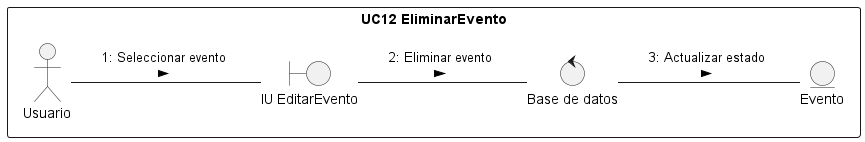
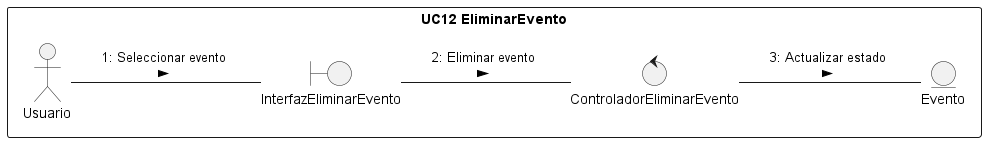
diagrama colaboracion

diff --git a/README.md b/README.md
@@ -54,15 +54,9 @@ El **Equipo de Trabajo** está conformado por:
   </div>
   <div align="center">
     <h4 style="text-decoration:underline">
-      Diagramas de Colaboración de los Casos de Uso
+      Diagrama de Colaboración de los Casos de Uso
     </h4>
-    <img src="docs/scenariosView/diagramas-de-colaboracion/DC1.png" alt="Diagrama-Colaboracion" style="border-radius:5px;">
-    <img src="docs/scenariosView/diagramas-de-colaboracion/DC2.png" alt="Diagrama-Colaboracion" style="border-radius:5px">
-    <img src="docs/scenariosView/diagramas-de-colaboracion/DC7.png" alt="Diagrama-Colaboracion" style="border-radius:5px">
-    <img src="docs/scenariosView/diagramas-de-colaboracion/DC9.png" alt="Diagrama-Colaboracion" style="border-radius:5px">
-    <img src="docs/scenariosView/diagramas-de-colaboracion/DC10.png" alt="Diagrama-Colaboracion" style="border-radius:5px">
-    <img src="docs/scenariosView/diagramas-de-colaboracion/DC12.png" alt="Diagrama-Colaboracion" style="border-radius:5px">
-    <img src="docs/scenariosView/diagramas-de-colaboracion/DC14.png" alt="Diagrama-Colaboracion" style="border-radius:5px">
+    <img src="docs/scenariosView/Diagrama Colaboracion.png" alt="Diagrama-Colaboracion" style="border-radius:5px;">
   </div>
   <div align="center">
     <h4 style="text-decoration:underline">
